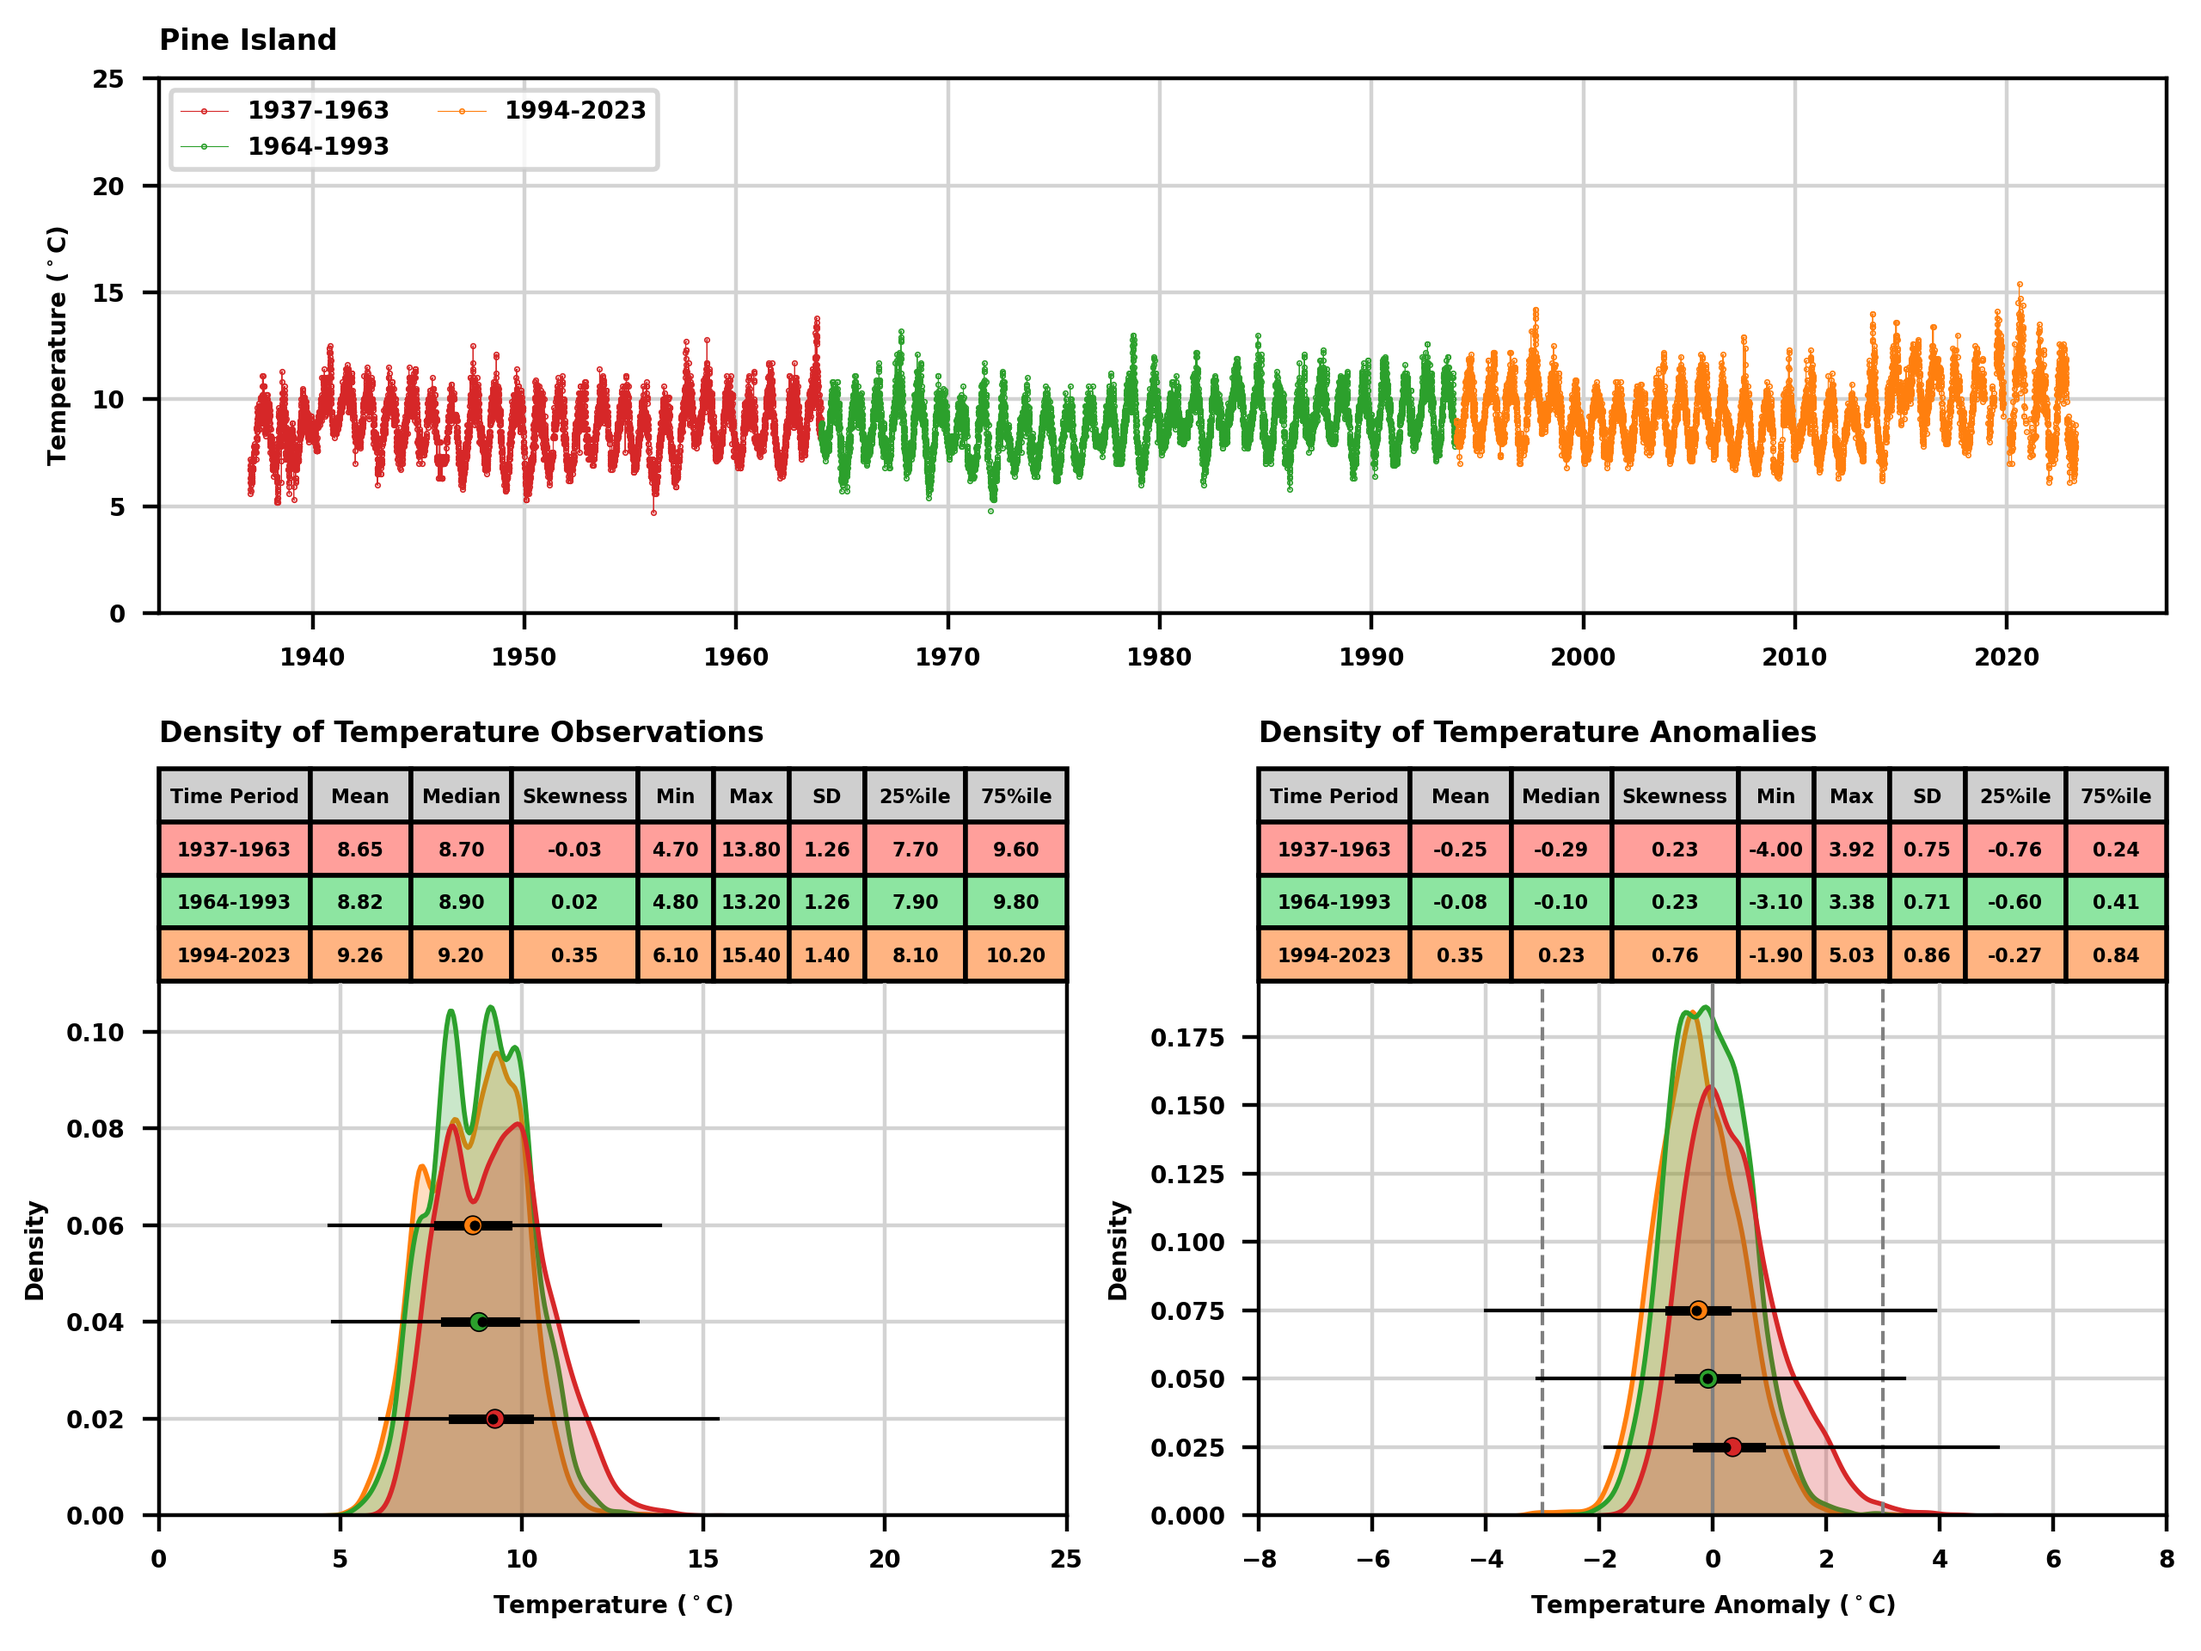
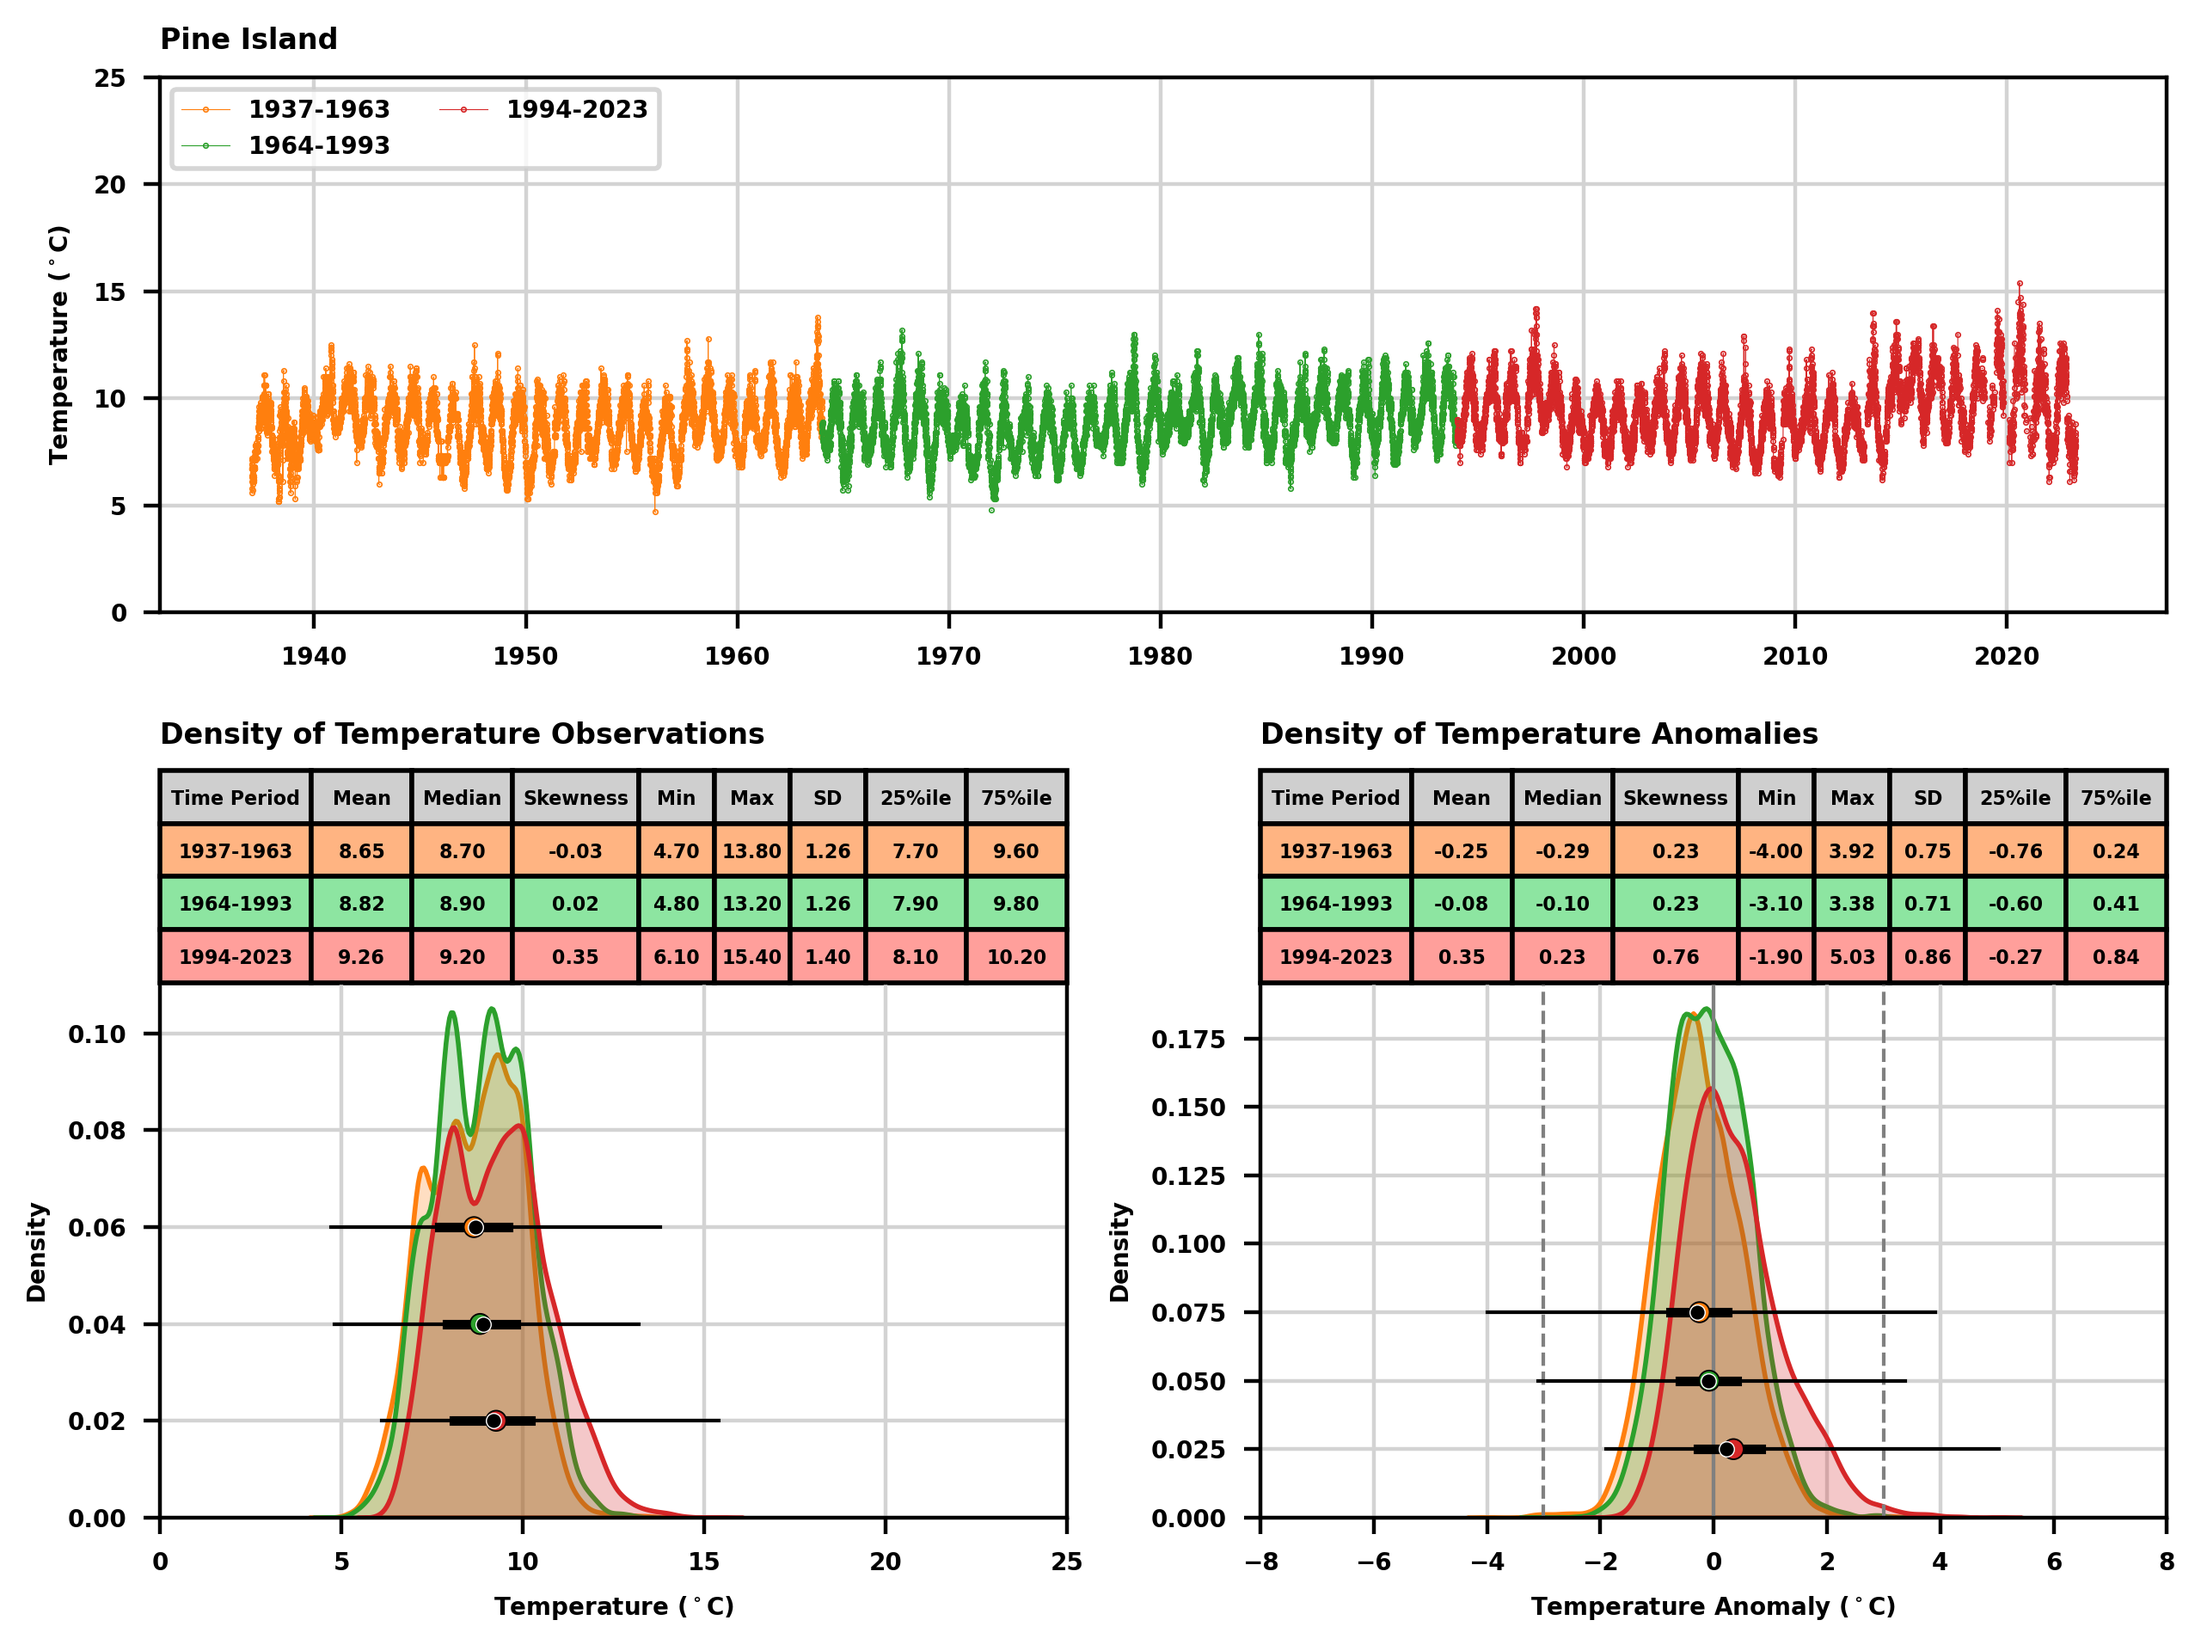
make black median dots in the barplots more visible and fix color matching again between the subplots

diff --git a/scripts/plot_lightstation_temperature.py b/scripts/plot_lightstation_temperature.py
@@ -766,8 +766,13 @@ def make_density_subplot(ax: plt.Axes, df: pd.DataFrame, var: str,
     # Add colors to table rows corresponding to density curves by year range
     ncols = len(cellText[0])
     tab = table(ax, cellText=cellText[::-1], rowLabels=None,
+                # cellColours=[
+                #     [sns.color_palette('pastel')[3:color_end:-1][k]] * ncols
+                #     for k in range(len(year_ranges))
+                # ],
                 cellColours=[
-                    [sns.color_palette('pastel')[3 - k]] * ncols for k in range(len(year_ranges))
+                    [sns.color_palette('pastel')[4-len(year_ranges):4][k]] * ncols
+                    for k in range(len(year_ranges))
                 ],
                 colColours=[sns.color_palette('pastel')[-3]] * ncols,  # grey for column headers
                 colLabels=stat_table_cols, loc='top', cellLoc='center',
@@ -804,13 +809,13 @@ def make_density_subplot(ax: plt.Axes, df: pd.DataFrame, var: str,
     # Artists with higher zorder are drawn on top.
     # https://matplotlib.org/stable/gallery/misc/zorder_demo.html#zorder-demo
     sns.scatterplot(df_stats, x='Median', y='y values', legend=False,
-                    ax=ax, c='k', marker='o', s=4,
-                    edgecolor='k', zorder=2.5)
+                    ax=ax, c='k', marker='o', s=10,
+                    edgecolor='white', zorder=2.5)
 
     # mean as filled dot, match opacity of density curves with alpha
     sns.scatterplot(df_stats, x='Mean', y='y values', hue='Year Range',
                     palette=sns.color_palette()[3:color_end:-1],
-                    legend=False, ax=ax, marker='o', s=15,
+                    legend=False, ax=ax, marker='o', s=18,
                     edgecolor='k', zorder=2.4)
 
     # Plot min max and quantiles as whiskers of the modified box plot
@@ -976,13 +981,16 @@ def plot_daily_T_statistics():
         #              ax=ax1, linewidth=0.5)
         # sns.pointplot(df_obs, x='Datetime', y='Temperature(C)', hue='Year Range',
         #               ax=ax1)
+
+        #          '1904-1933', '1934-1963', '1964-1993', '1994-2023'
         colours = ['tab:blue', 'tab:orange', 'tab:green', 'tab:red']  # sns.color_palette(n_colors=len(year_ranges))
         for k in range(len(year_ranges)):
             yr = year_ranges[k]
             mask = df_obs.loc[:, 'Year Range'] == yr
             ax1.plot(df_obs.loc[mask, 'Datetime'], df_obs.loc[mask, 'Temperature(C)'],
                      linewidth=0.2, marker='o', markeredgecolor=None, markersize=0.3,
-                     c=colours[3 - k], label=yr, markerfacecolor=colours[3 - k])
+                     c=colours[4 - len(year_ranges) + k], label=yr,
+                     markerfacecolor=colours[4 - len(year_ranges) + k])
         plt.grid(which='major', axis='both', color='lightgrey')
         ax1.legend(loc='upper left', ncol=2)
         ax1.set_ylim((0, 25))
